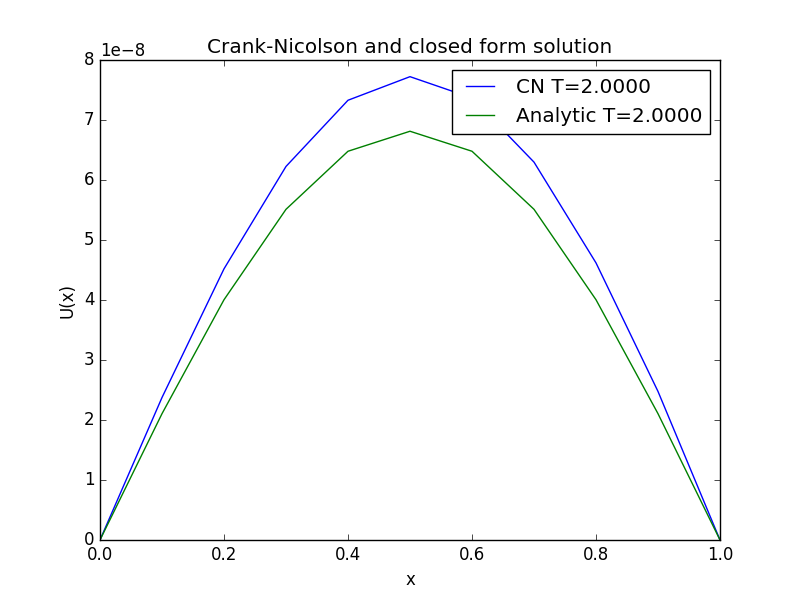
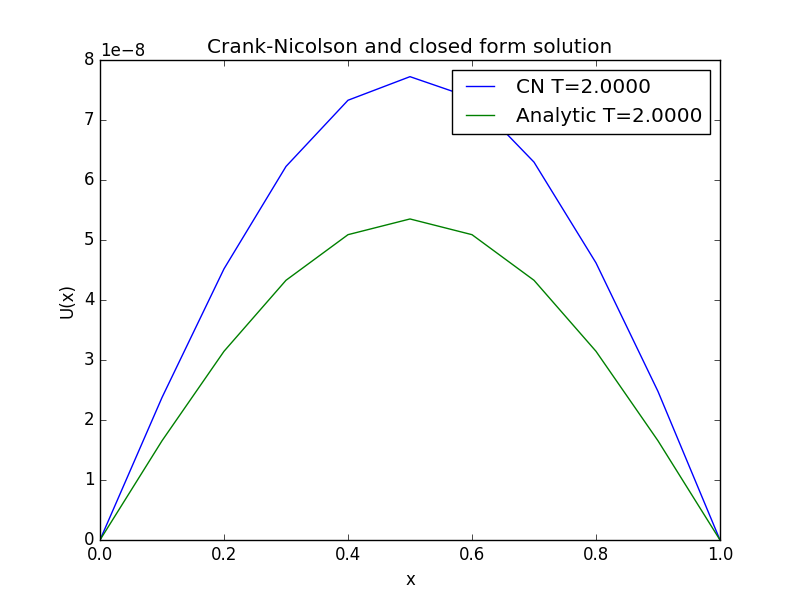
Ferdig-ish?

diff --git a/PDE2dim/main.cpp b/PDE2dim/main.cpp
@@ -25,7 +25,21 @@ void printtofile(double t, mat u, int n ){
     }
 }
 
-void jakobi_solver (int n, double t_steps, double dx, double dt, mat &A_old) {
+double func(double dx, double x_step, double y_step){
+    double pi  =3.141592653589793238463;
+    return 20*sin(pi*dx*x_step)*sin(pi*dx*y_step);
+}
+
+void jakobi_solver (double dx, double dt) {
+    double n = 1.0/dx;
+    double t_steps = 1000;
+    mat A_old = zeros<mat>(n+1,n+1);
+    for (int i=1;i<n;i++) {
+        for (int j=1;j<n;j++) {
+            A_old(i,j) = func(dx,i,j);
+        }
+    }
+
     double alpha = dt/(dx*dx);
     mat A_new = zeros<mat>(n+1,n+1);
     for (int t=1;t<=t_steps;t++) {
@@ -36,7 +50,7 @@ void jakobi_solver (int n, double t_steps, double dx, double dt, mat &A_old) {
             }
         }
         A_old = A_new;
-        if((t%10==0)||(t==1)) {
+        if((t%100==0)||(t==1)) {
             double time = t*dt;
             printtofile(time, A_new,n);
         }
@@ -44,14 +58,11 @@ void jakobi_solver (int n, double t_steps, double dx, double dt, mat &A_old) {
 }
 
 
-double func(double dx, double x_step, double y_step){
-    double pi  =3.141592653589793238463;
-    return 20*sin(pi*dx*x_step)*sin(pi*dx*y_step);
-}
-
 //Found by separation of variables (solving for x while keeping t and y constant and vice versa)
-void analytic_Solution (double dx, double dt, double n, double t_steps) {
-    mat u = zeros<mat>(t_steps+1,n+1);
+void analytic_Solution (double dx, double dt) {
+    double n = 1.0/dx;
+    double t_steps = 1000;
+    mat u = zeros<mat>(n+1,n+1);
     for (int t=1;t<t_steps;t++) {
         for (int i=1;i<n;i++) {
             for (int j=1;j<n;j++) {
@@ -59,7 +70,7 @@ void analytic_Solution (double dx, double dt, double n, double t_steps) {
                 u(i,j) = 20*sin(pi*dx*i)*sin(pi*dx*j)*exp(-2*pi*pi*dt*t);
             }
         }
-        if((t%10==0)||(t==1)) {
+        if((t%100==0)||(t==1)) {
             double time = t*dt;
             printtofile(time, u,n);
         }
@@ -68,33 +79,23 @@ void analytic_Solution (double dx, double dt, double n, double t_steps) {
 
 int main(){
     //Declaring variables
-    int n;
-    double dx, dt, t_steps;
+    double dx, dt;
     char* outfilename;
-    outfilename = "test.txt";
-    n = 10;
-    dx = 0.1;
+    outfilename = "num_dt0.02.txt";
+    dx = 0.02;
     dt = dx*dx*0.25;
-    t_steps = n*n*n;
-    mat A = zeros<mat>(n+1,n+1);
-
-    for (int i=1;i<n;i++) {
-        for (int j=1;j<n;j++) {
-            A(i,j) = func(dx,i,j);
-        }
-    }
 
     clock_t start, finish;
     start = clock();
     ofile.open(outfilename);
-    jakobi_solver(n,t_steps,dx,dt,A);
+    jakobi_solver(dx,dt);
     ofile.close();
     finish =clock();
     double t = ((finish-start));
     double seconds = t/CLOCKS_PER_SEC;
 
-    outfilename = "analytic.txt";
+    outfilename = "ana_dt0.02.txt";
     ofile.open(outfilename);
-    analytic_Solution(dx,dt,n,t_steps);
+    analytic_Solution(dx,dt);
     return 0;
 }

diff --git a/PDESolver/main.cpp b/PDESolver/main.cpp
@@ -163,7 +163,7 @@ void analytic_Solution (double dx, double dt, double n, double t_step) {
     for (int t=1;t<=t_step;t++) {
         for (int i=1;i<n;i++) {
             double pi = 3.141592653589793238463;
-            u(i) = 20*4/pi*sin(pi*dx*i)*exp(-pi*pi*dt*t);
+            u(i) = 20*sin(pi*dx*i)*exp(-pi*pi*dt*t);
         }
         if (t%10==0 || t==1) {
             double time = t*dx*dx*0.25;

diff --git a/Results/plot_t1t2.py b/Results/plot_t1t2.py
@@ -22,7 +22,7 @@ count = 0
 for line in ana.readlines():
     temp = line.split(",")
     for i in range(len(temp)-1):
-        U_ana[count][i] = 4.0/np.pi*float(temp[i+1])
+        U_ana[count][i] = float(temp[i+1])
     count+=1
 ana.close()
 
